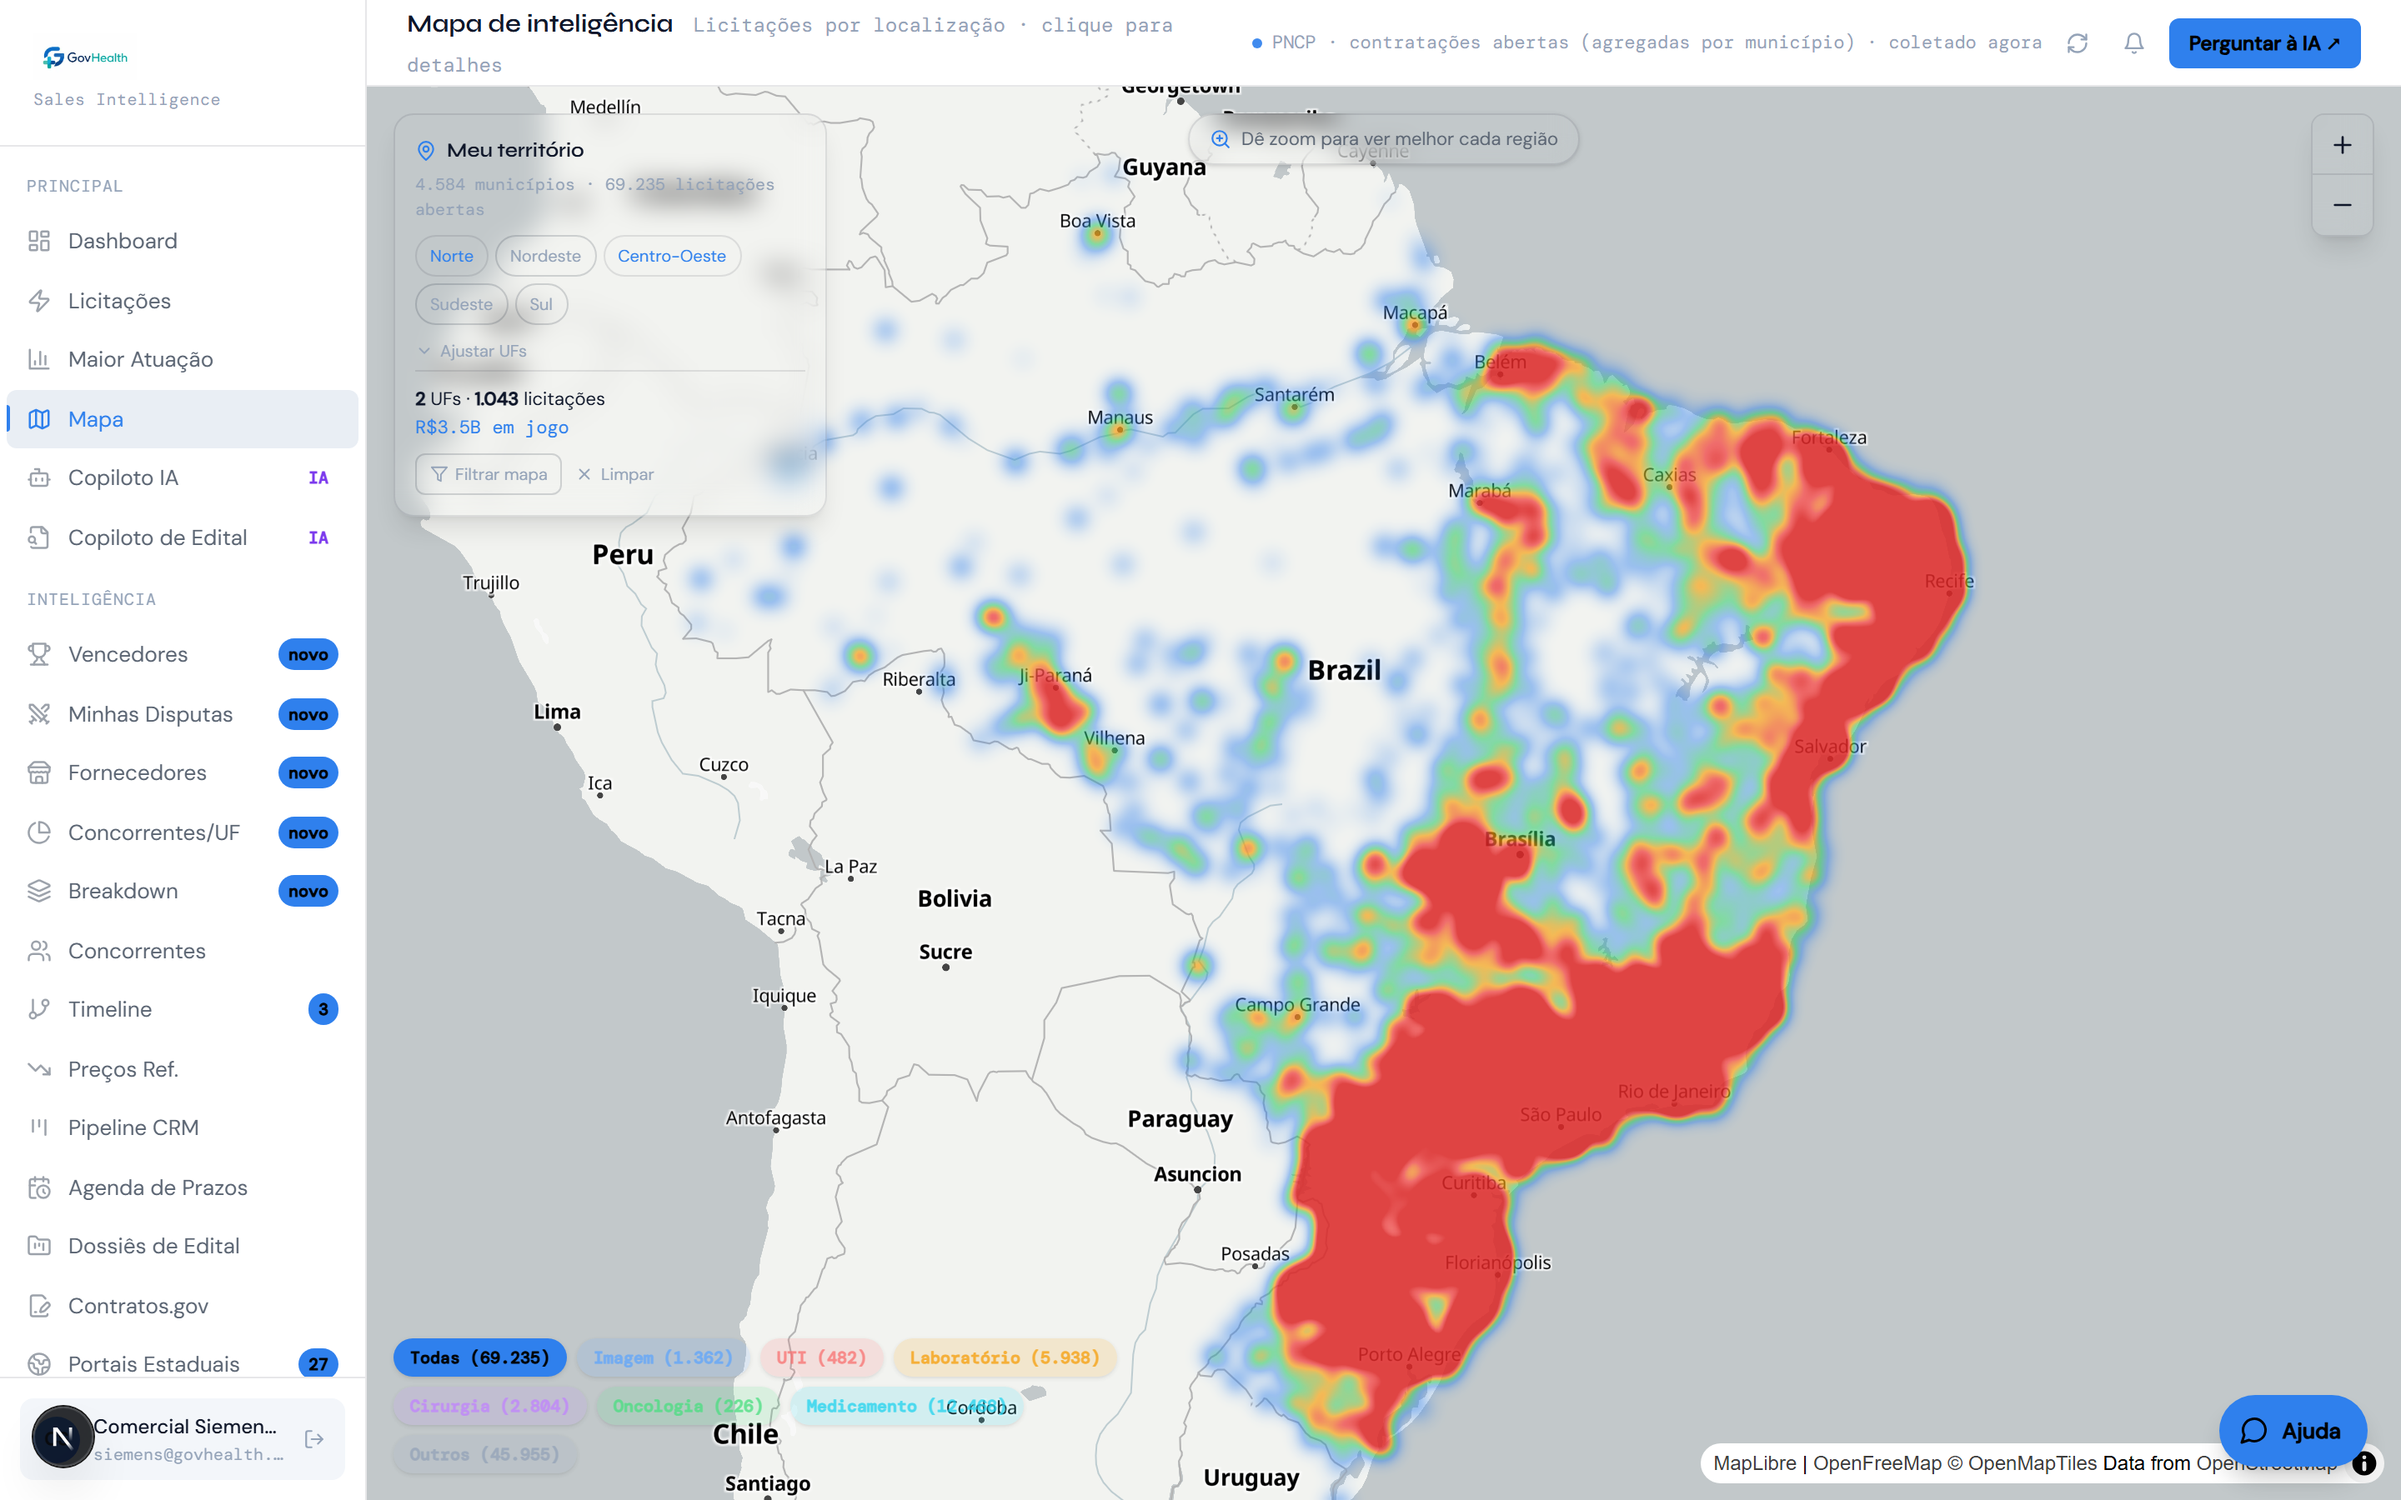
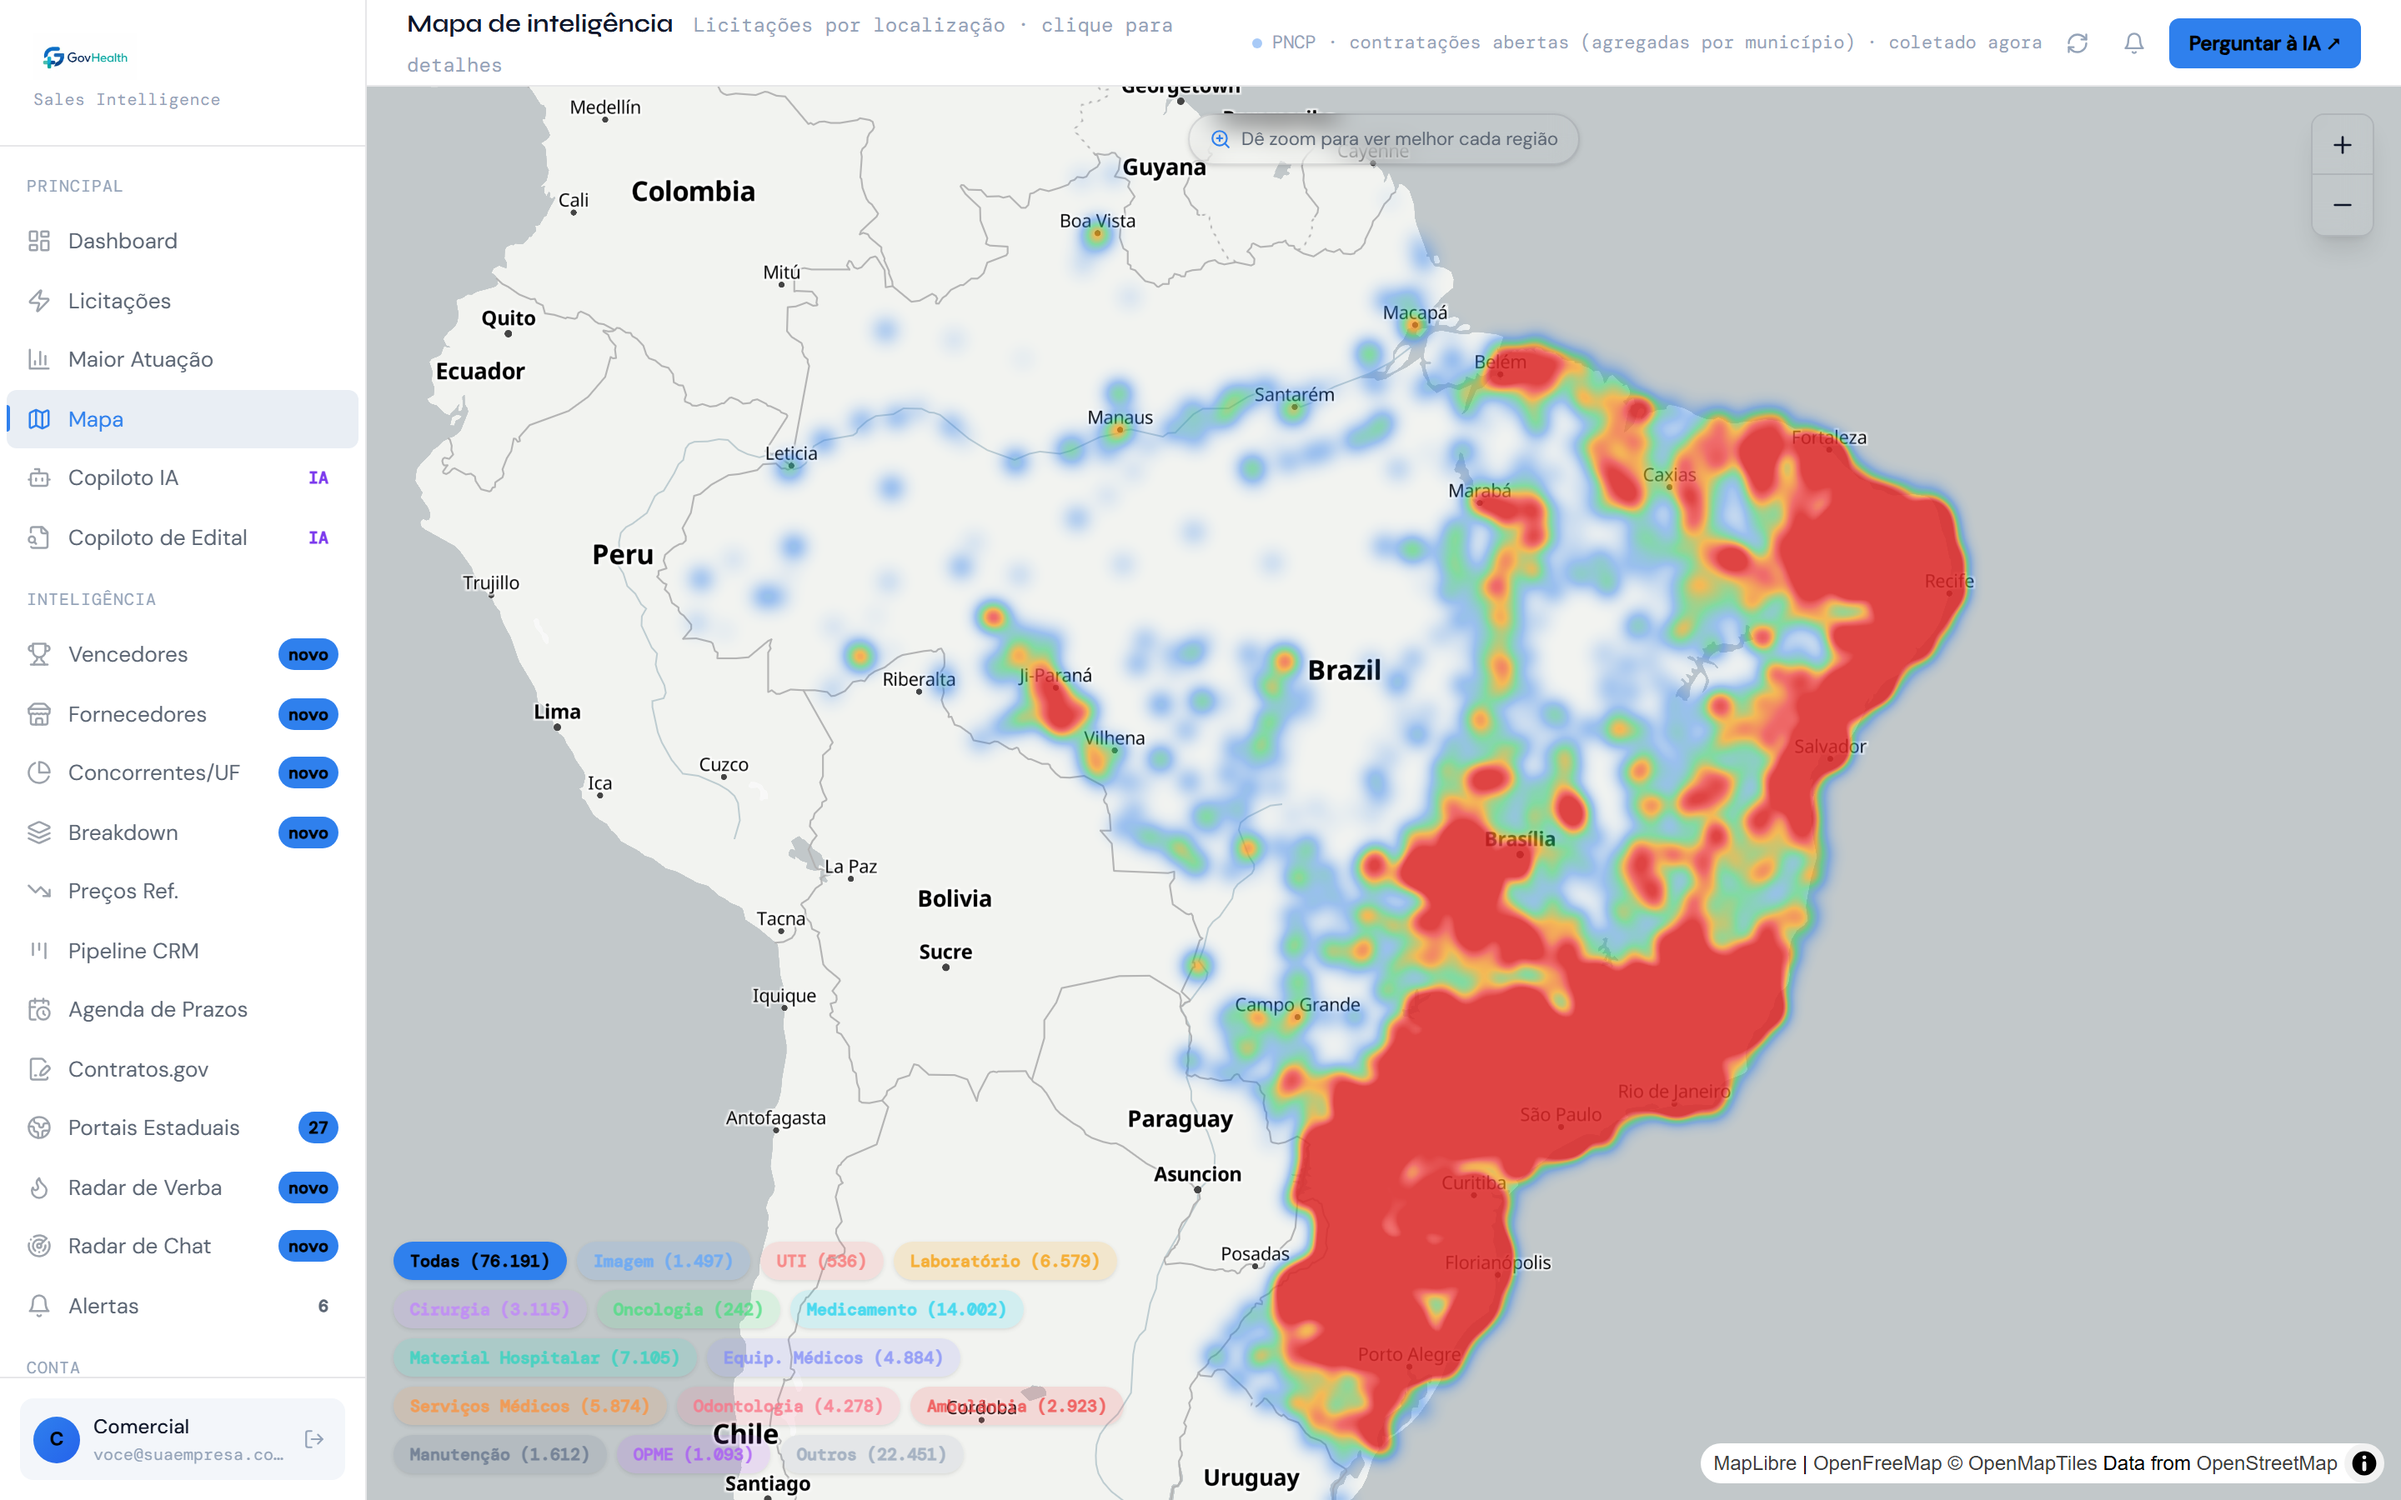
feat(landing): prints reais atualizados + secao "Por dentro" com 3 telas
A landing prometia Radar de Chat, precos de referencia e ordenacao, e mostrava
duas imagens antigas: dashboard e mapa. Agora sao quatro prints tirados da
producao, com dado real.

Novos: /oportunidades (a lista com ordenacao no cabecalho, 14 categorias, score)
e /precos (preco praticado por fornecedor/orgao/UF/data + CATMAT). Vao numa
secao "Por dentro" junto do mapa, cada um com legenda que amarra numero do banco
a imagem.

O print do dashboard publicava "Comercial Siemens / siemens@govhealth.ai" no
chip da sidebar: a home dizia, na pratica, que a Siemens e cliente. O capture.mjs
agora anonimiza a identidade antes de fotografar (chip, avatar e os atalhos de
portfolio, que sao marcas da conta) e tira o widget de Ajuda.

Tambem no capture.mjs:
- senha sai do codigo para SHOTS_EMAIL/SHOTS_SENHA no .env.local (estava
  embutida uma senha de conta de producao no arquivo versionado);
- dashboard e fotografado em "Brasil (todos)", nao no territorio da conta;
- /precos precisa de uma busca para render algo — usa Ultrassom (equipamento) e
  nao Dipirona, onde o cartao PRECO MEDIO da R$ 194K contra mediana R$ 1,00;
- filtro por nome de print e --only para reprocessar so um.

O print do Radar de Chat ficou de fora e esta no .gitignore: nesta conta a tela
tem 0 mensagem capturada e 1 conector com falha, e mostra o CNPJ da conta.

diff --git a/src/app/inicio/page.tsx b/src/app/inicio/page.tsx
@@ -290,8 +290,16 @@ export default async function InicioPage() {
           </div>
         </section>
 
-        {/* ── Bloco 5 — Screenshot grande (mapa) ─────────────────────────── */}
+        {/* ── Bloco 5 — Por dentro: três telas reais ─────────────────────── */}
+        {/* Prints tirados da produção, com dado real, não mockup. A conta usada é de
+            apresentação e tem nome de empresa real — scripts/shots/capture.mjs
+            anonimiza a identidade antes de fotografar (ver o comentário lá). */}
         <section className="max-w-[1080px] mx-auto px-6 py-20">
+          <p className="text-center text-[12px] font-mono-custom text-faint uppercase tracking-wider mb-3">Por dentro</p>
+          <h2 className="reveal text-center font-heading font-bold text-[28px] mb-10 max-w-[560px] mx-auto leading-tight">
+            As telas que você vai abrir todo dia
+          </h2>
+
           <div className="reveal">
             <Frame>
               <Image src="/shots/mapa.png" alt="Mapa de inteligência: oportunidades de saúde por todo o Brasil"
@@ -305,6 +313,34 @@ export default async function InicioPage() {
             {s.ufs} estados, com {num(s.total)} contratações classificadas em 14 categorias.{' '}
             <span className="text-faint">Atualizado em {s.ult}.</span>
           </p>
+
+          <div className="grid md:grid-cols-2 gap-8 mt-14">
+            <div className="reveal">
+              <Frame>
+                <Image src="/shots/licitacoes.png" alt="Lista de licitações de saúde com score, valor, status e categoria"
+                  width={1440} height={900} className="w-full h-auto" />
+              </Frame>
+              <h3 className="font-heading font-semibold text-[16px] mt-5 mb-1.5">A lista inteira, do seu jeito</h3>
+              <p className="text-[13.5px] text-muted leading-relaxed">
+                As <strong className="text-strong">{num(s.abertas)} abertas</strong> ordenadas por valor ou por
+                score no clique do cabeçalho, separadas nas 14 categorias de saúde — de OPME a odontologia — com
+                filtro por estado, por ano e por aberta/encerrada. Exportável em um clique.
+              </p>
+            </div>
+
+            <div className="reveal" style={{ '--d': '0.08s' } as React.CSSProperties}>
+              <Frame>
+                <Image src="/shots/precos.png" alt="Painel de Preços: preços de referência do Compras.gov por fornecedor, órgão e data"
+                  width={1440} height={900} className="w-full h-auto" />
+              </Frame>
+              <h3 className="font-heading font-semibold text-[16px] mt-5 mb-1.5">Quanto o governo já pagou</h3>
+              <p className="text-[13.5px] text-muted leading-relaxed">
+                Antes de precificar: o preço praticado no mesmo item — fornecedor, órgão, UF, data e código
+                CATMAT — direto do Painel de Preços do Compras.gov. Mínimo, mediana e máximo, para você saber
+                onde seu lance cai.
+              </p>
+            </div>
+          </div>
         </section>
 
         {/* ── Planos ─────────────────────────────────────────────────────── */}
